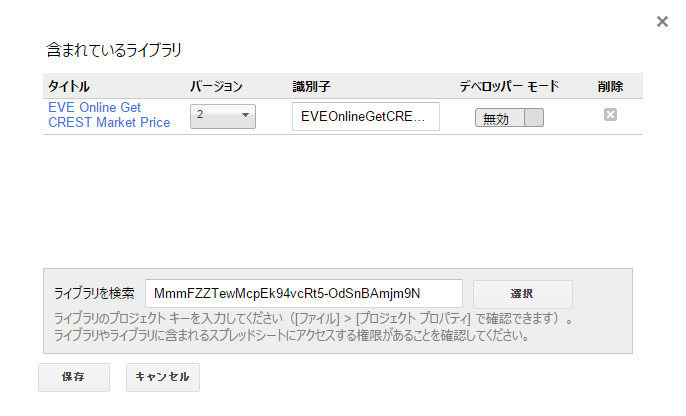
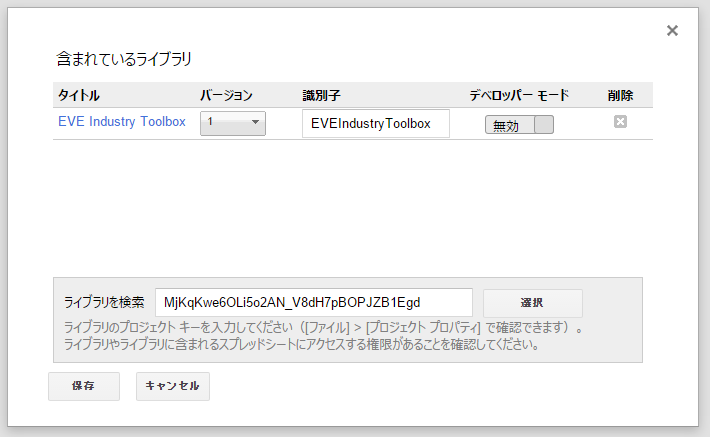
add Industry Toolbox

diff --git a/source/industry_toolbox.rst b/source/industry_toolbox.rst
@@ -1,0 +1,72 @@
+.. _industry_toolbox:
+
+Industry Toolbox
+================
+
+Googleスプレッドシート向けのマーケット情報を取得する関数群です。
+
+現在は以下の関数を提供しています。
+
+.. toctree::
+   :maxdepth: 1
+
+   get_adjusted_price
+   get_market_price
+   get_system_cost_index
+   get_trade_volume
+
+インストール方法
+----------------
+
+1. スクリプトエディタを開く
+
+.. image:: ../images/open_script_editor.png
+
+2. ライブラリを開く
+
+.. image:: ../images/open_library.png
+
+3. プロジェクトを適当な名前で保存する
+
+.. image:: ../images/save_project.png
+
+4. 以下のプロジェクトIDを「ライブラリを検索」テキストボックスへ入れる ::
+
+     MjKqKwe6OLi5o2AN_V8dH7pBOPJZB1Egd
+
+5. 最新のバージョンを選択する
+
+.. image:: ../images/select_version.png
+
+6. 以下のコードをコピペして保存する。 ::
+
+     function getMarketPrice(region_id, type_id, station_string, sell_or_buy_string, min_or_max_string, refresh_code) {
+       return EVEIndustryToolbox.getMarketPrice(region_id, type_id, station_string, sell_or_buy_string, min_or_max_string, refresh_code)
+     }
+
+     function getAdjustedPrice(type_id, refresh_code) {
+       return EVEIndustryToolbox.getAdjustedPrice(type_id)
+     }
+
+     function getTradeVolume(region_id, type_id, operation_string, refresh_code) {
+       return EVEIndustryToolbox.getTradeVolume(region_id, type_id, operation_string)
+     }
+
+     function getSystemCostIndex(system_name, activity_name, refresh_code) {
+       return EVEIndustryToolbox.getSystemCostIndex(system_name, activity_name)
+     }
+
+     function onOpen() {
+       EVEIndustryToolbox.onOpen()
+     }
+
+     function showRequestCount() {
+       EVEIndustryToolbox.showRequestCount()
+     }
+
+以上で準備完了です。
+
+更新履歴
+--------
+Ver.1 2016/02/12
+     初出ということで。

diff --git a/source/how_to_refresh_cell.rst b/source/how_to_refresh_cell.rst
@@ -5,29 +5,13 @@
 
 価格取得関数を再取得する方法を解説します。
 
-利用者側でコードの微修正と、セルひとつが必要です。
+利用者側で数式の修正と、セルひとつが必要です。
 たぶんご存知の方にはお馴染みの方法です。
 
 準備
 ----
 
-1. コードを以下のように修正する
-
-   :ref:`get_market_price` の場合::
-
-     function getMarketPrice(a, b, c, d, e, f) {
-       return EVEOnlineGetCRESTMarketPrice.getMarketPrice(a, b, c, d, e)
-     }
-
-   :ref:`get_system_cost_index` の場合::
-
-      function getSystemCostIndex(a,b,c) {
-        return EVESystemCostIndex.getSystemCostIndex(a,b)
-      }
-
-   引数が一つ増えただけですね。
-
-2. スプレッドシートの数式に引数を一つ追加する
+1. スプレッドシートの数式に引数を一つ追加する
 
    例えば以下のような感じで、末尾に一つ追加します。
    このとき、どこでもいいので空いている使わないセルを指定してください。
@@ -38,8 +22,11 @@
 更新する方法
 ------------
 
-手順２で指定したセルに適当な数値を入れると、更新できます。
+上の準備で指定したセルに適当な数値を入れると、更新できます。
 再度更新するには、入っていた値とは違う値を入れる必要があります。
+
+今後
+----
 
 違う数値を入れるのが面倒になると思うので、サイドバーからボタン一つで更新できるようなUIを作ろうかと思っています。
 （それでもセル一つお借りしますが…）

diff --git a/source/get_market_price.rst b/source/get_market_price.rst
@@ -1,24 +1,10 @@
 .. _get_market_price:
 
-アイテム価格取得関数 (Google SpreadSheet)
-=========================================
+アイテム価格取得関数
+====================
 
 CREST経由で、特定のステーション内の注文価格を返します。
 売りまたは買い、最小または最大価格を選択できます。
-
-インストール情報
-----------------
-使用前の準備については :ref:`how_to_import_library` を参照してください。
-
-プロジェクトID::
-
-  MmmFZZTewMcpEk94vcRt5-OdSnBAmjm9N
-
-コード::
-
-  function getMarketPrice(a, b, c, d, e) {
-    return EVEOnlineGetCRESTMarketPrice.getMarketPrice(a, b, c, d, e)
-  }
 
 使用方法
 --------
@@ -48,8 +34,3 @@ CREST経由で、特定のステーション内の注文価格を返します。
 * ステーション名を空にすると、リージョン全体で検索します
 * 注文が存在しない場合、0.00iskを返します
 * CCPのサーバとの接続に失敗した場合でも、3回までリトライします
-
-更新履歴
---------
-Ver.5 2016/02/04
-     初出ということで。

diff --git a/source/get_trade_volume.rst b/source/get_trade_volume.rst
@@ -1,23 +1,9 @@
 .. _get_trade_volume:
 
-取引量取得関数 (Google SpreadSheet)
-===========================================
+取引量取得関数
+==============
 
 CREST経由で、アイテムの取引量を返します。
-
-インストール情報
-----------------
-使用前の準備については :ref:`how_to_import_library` を参照してください。
-
-プロジェクトID::
-
-  M8vSHWuTkJfN6sv2pBVp5i-dSnBAmjmN9
-
-コード::
-
-  function getTradeVolume(a,b,c) {
-    return EVETradeVolume.getTradeVolume(a,b,c)
-  }
 
 使用方法
 --------
@@ -46,14 +32,4 @@ CREST経由で、アイテムの取引量を返します。
 ----------
 
 * CCPのサーバとの接続に失敗した場合でも、3回までリトライします
-
-更新履歴
---------
-Ver.3 2016/02/07
-    取引がない場合は 0.0 を返すよう修正
-
-Ver.2 2016/02/07
-    平均を取得できない不具合を修正
-
-Ver.1 2016/02/07
-    初出
+* 取引がない場合は 0.0 を返します

diff --git a/source/get_system_cost_index.rst b/source/get_system_cost_index.rst
@@ -1,23 +1,9 @@
 .. _get_system_cost_index:
 
-星系のコスト指数取得関数 (Google SpreadSheet)
-=============================================
+星系のコスト指数取得関数
+========================
 
 CREST経由で、特定の星系での生産活動にかかるコスト指数を返します。
-
-インストール情報
-----------------
-使用前の準備については :ref:`how_to_import_library` を参照してください。
-
-プロジェクトID::
-
-  MvWLo01ttq_6TKr5i7fE2H-dSnBAmjm9N
-
-コード::
-
-  function getSystemCostIndex(a,b) {
-    return EVESystemCostIndex.getSystemCostIndex(a,b)
-  }
 
 使用方法
 --------
@@ -48,8 +34,3 @@ CREST経由で、特定の星系での生産活動にかかるコスト指数を
 ----------
 
 * CCPのサーバとの接続に失敗した場合でも、3回までリトライします
-
-更新履歴
---------
-Ver.2 2016/02/03
-     初出ということで。

diff --git a/source/get_adjusted_price.rst b/source/get_adjusted_price.rst
@@ -1,23 +1,9 @@
 .. _get_adjusted_price:
 
-Adjusted Price取得関数 (Google SpreadSheet)
-===========================================
+Adjusted Price取得関数
+======================
 
 CREST経由で、生産のジョブコスト算出に使われる「Adjusted Price」を返します。
-
-インストール情報
-----------------
-使用前の準備については :ref:`how_to_import_library` を参照してください。
-
-プロジェクトID::
-
-  M_2APPpTCsPs7VyQD2NROtOdSnBAmjm9N
-
-コード::
-
-  function getAdjustedPrice(a) {
-    return EVEAdjustedPrice.getAdjustedPrice(a)
-  }
 
 使用方法
 --------
@@ -41,8 +27,3 @@ CREST経由で、生産のジョブコスト算出に使われる「Adjusted Pri
 ----------
 
 * CCPのサーバとの接続に失敗した場合でも、3回までリトライします
-
-更新履歴
---------
-Ver.1 2016/02/04
-     初出

diff --git a/source/index.rst b/source/index.rst
@@ -7,14 +7,10 @@ Hirotosh EVE Tools
 ==================
 
 .. toctree::
-   :maxdepth: 2
+   :maxdepth: 1
 
    name_id_tables
-   how_to_import_library
-   get_market_price
-   get_system_cost_index
-   get_adjusted_price
-   get_trade_volume
+   industry_toolbox
    how_to_refresh_cell
 
 質問、バグ報告、ISK寄付は Hirotosh Mabata へどうぞ!
